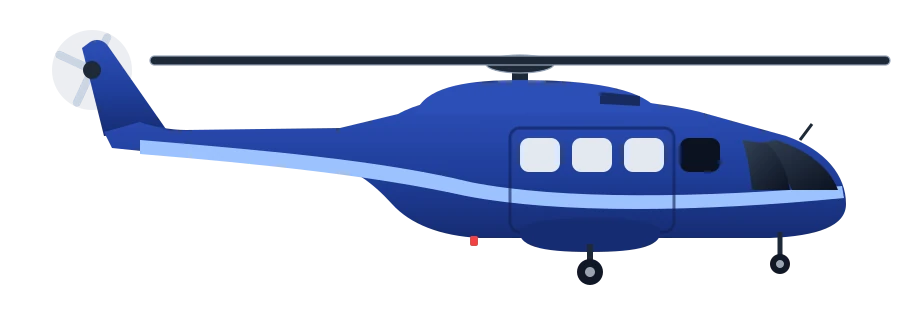
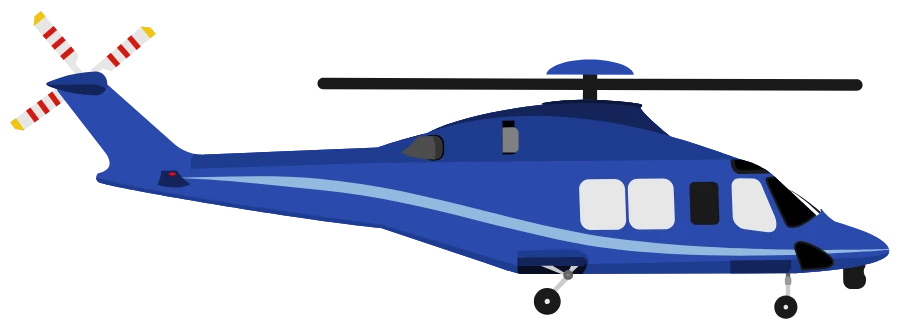
Build 6: nieuwe tekening Zulu AW139 (app en website)
Claude-Session: https://claude.ai/code/session_01CXMY93G7xDhpkGzoP4jpki

diff --git a/tools/make_project.py b/tools/make_project.py
@@ -57,7 +57,7 @@ identity = {
     "CODE_SIGN_STYLE": "Automatic",
     "DEVELOPMENT_TEAM": TEAM,
     "MARKETING_VERSION": "1.0.0",
-    "CURRENT_PROJECT_VERSION": "5",
+    "CURRENT_PROJECT_VERSION": "6",
     "GENERATE_INFOPLIST_FILE": "YES",
     "INFOPLIST_KEY_ITSAppUsesNonExemptEncryption": "NO",
     "SWIFT_EMIT_LOC_STRINGS": "YES",
